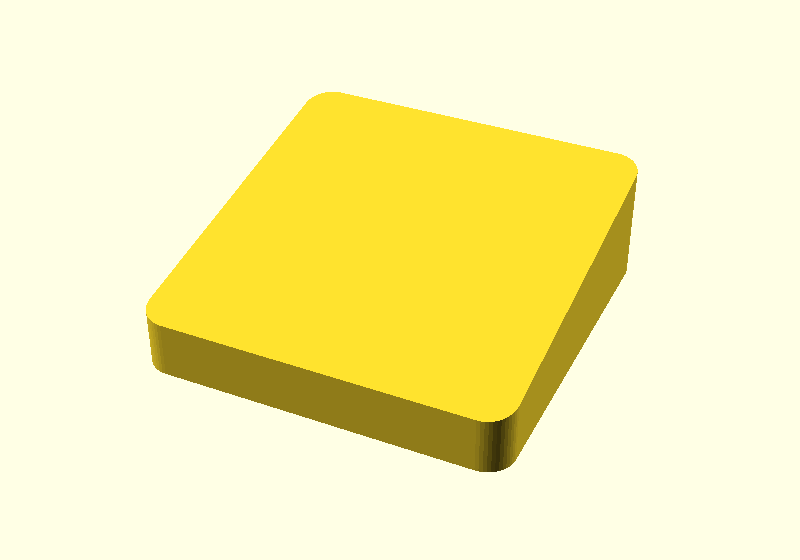
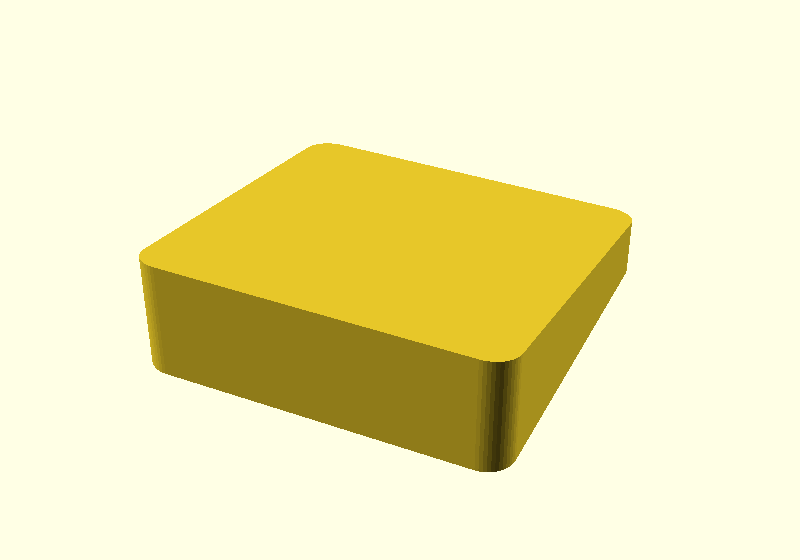
Move the power inlet to the back and tilt the cap toward the front
The inlet now sits under the plain back face, the side that stands against
the wall, so the cord runs out of sight. The inlet pieces are still modeled
on -Y and mirrored to the back by inlet_side().

cap_tilt_dir defaults to 180, putting the high edge at the slotted front so
a speaker on the cap tips back toward the listener. The stack and
base-inlet images are re-rendered from behind so the inlet shows.

Changed region(s): [[0.1562, 0.1518, 0.8125, 0.7589]]

diff --git a/README.md b/README.md
@@ -94,7 +94,7 @@ settings, material left at the ends, and whether the height stacks cleanly.
 | `slot_fit` | 0.2 | Printing allowance on the slot **width** only. |
 | `slot_fillet` | 0.8 | Rounds each slot opening, inside and out. |
 | `alternate_corners` | true | Staggers the pattern where two faces meet. |
-| `slots_front`, `slots_back`, `slots_left`, `slots_right` | true, false, true, true | Which faces carry the Skadis pattern. The back is off by default, for a tower that stands against a wall. Turn any face on or off. Front is -Y, the side the base's power inlet is on. |
+| `slots_front`, `slots_back`, `slots_left`, `slots_right` | true, false, true, true | Which faces carry the Skadis pattern. The back is off by default, for a tower that stands against a wall. Turn any face on or off. Front is -Y; back is +Y, the side the base's power inlet is on. |
 | `edge_margin` | 4 | Minimum material between a slot and a rounded corner. |
 
 ### Cap
@@ -102,7 +102,7 @@ settings, material left at the ends, and whether the height stacks cleanly.
 | Parameter | Default | Notes |
 | --- | --- | --- |
 | `cap_tilt` | 10 | Degrees from horizontal. 0 gives a plain flat lid. |
-| `cap_tilt_dir` | 0 | Which edge is the high one, as a compass direction. |
+| `cap_tilt_dir` | 180 | Which edge is the high one: 0 back (+Y), 90 left (-X), 180 front (-Y), 270 right (+X). The front default tips a speaker back toward you. |
 | `cap_roof` | 4 | Material over the pockets at the low edge. Sets the cap's thickness. |
 | `cap_open` | false | Opens the middle, leaving a collar: the tower's walls cut off at the tilt. The speaker sits on a slanted rim, and cables come straight up the core. |
 
@@ -137,16 +137,16 @@ holes seat on solid pads, each webbed out to its corner of the wall, so they wor
 
 ### Base power inlet
 
-A cutout in the front (-Y) of the base for a snap-in IEC C14 power inlet: the common
+A cutout in the back (+Y) of the base for a snap-in IEC C14 power inlet: the common
 3-in-1 module with a power socket, fuse drawer and rocker switch. Mains comes in at the base, and
 the wires run up through the hollow core.
 
-<img src="images/base-inlet.png" alt="The taller base with a power inlet recessed flush with the tower's front face" width="330">
+<img src="images/base-inlet.png" alt="The taller base with a power inlet recessed flush with the tower's back face" width="330">
 
-The inlet is recessed. An alcove is cut down through the front of the base, so the inlet
-sits flush with the tower's front face instead of the base's outer edge. The plug then
+The inlet is recessed. An alcove is cut down through the back of the base, so the inlet
+sits flush with the tower's back face instead of the base's outer edge. The plug then
 stands out less, and that face still lines up with the tower above it. The alcove needs
-the flat part of the tower's front face to be wide enough. With the default 6 mm
+the flat part of the tower's back face to be wide enough. With the default 6 mm
 `corner_radius`, the tower has to be at least 67 mm wide.
 
 The defaults are sized for this module:
